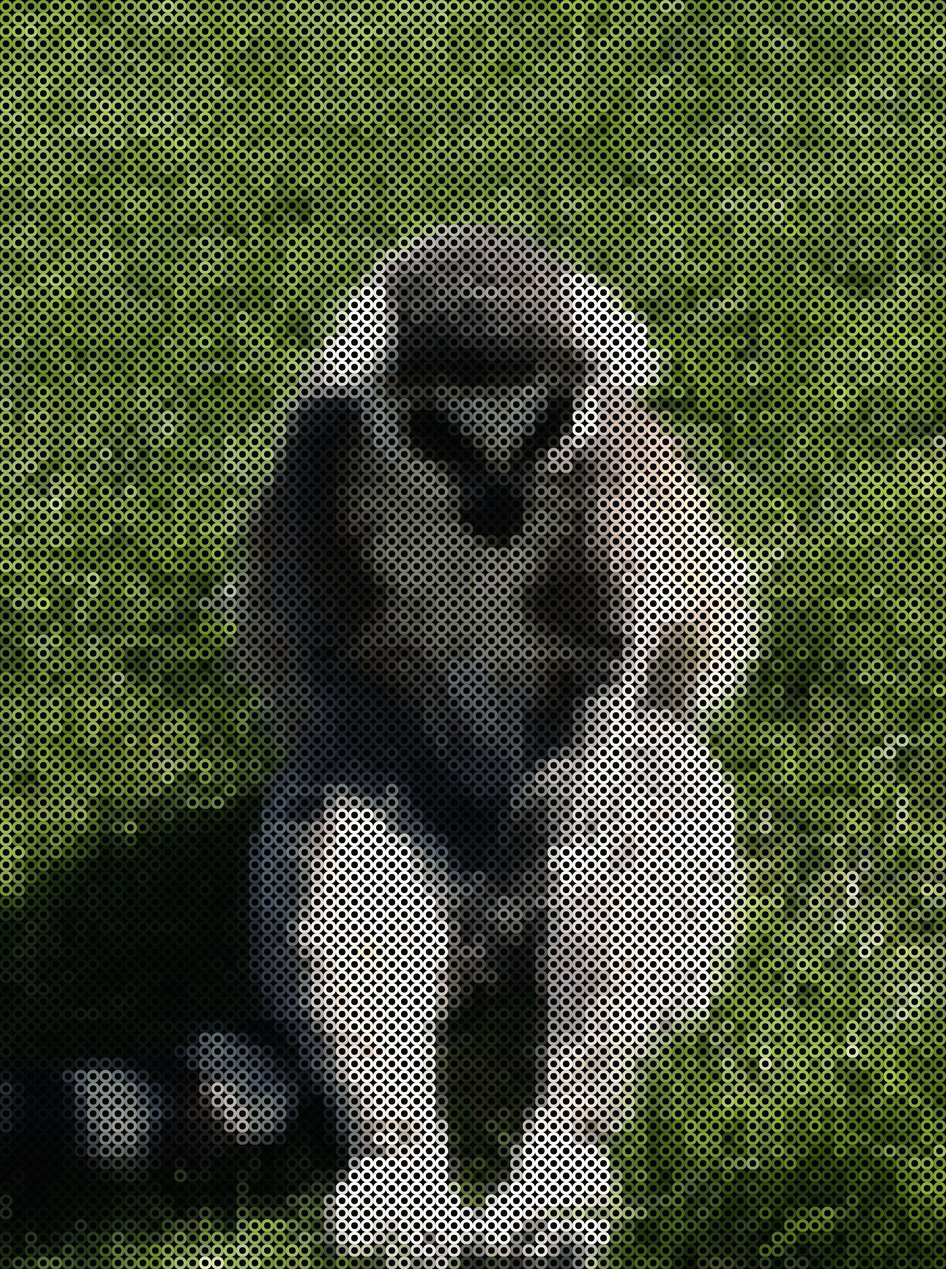
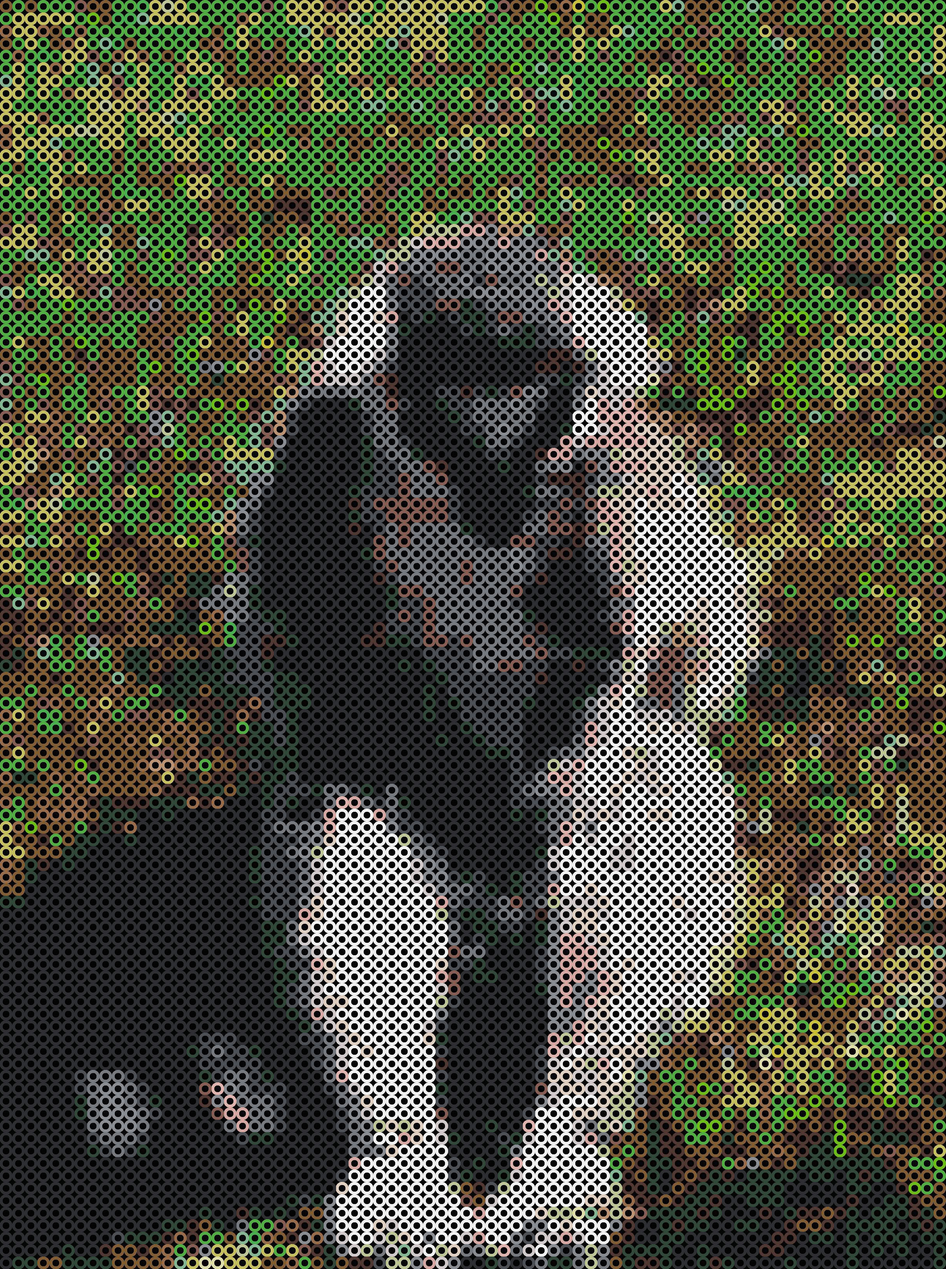
added lemur bonus image using multiplebeads

diff --git a/README.md b/README.md
@@ -36,7 +36,7 @@ pip install colormath
 ## Created using: ./beads.py -i images/donald.jpg -b beads/multiplebeads.txt -f -o images/donald_multifast.jpg
 ![alt text][multi]
 
-As a bonus I have added a converted photo of a Lemur.
+As a bonus I have added a converted photo of a Lemur using the beads I had available in multiplebeads.txt
 ![alt text][lemur]
 
 [orig]: images/donald.jpg "Original image"
